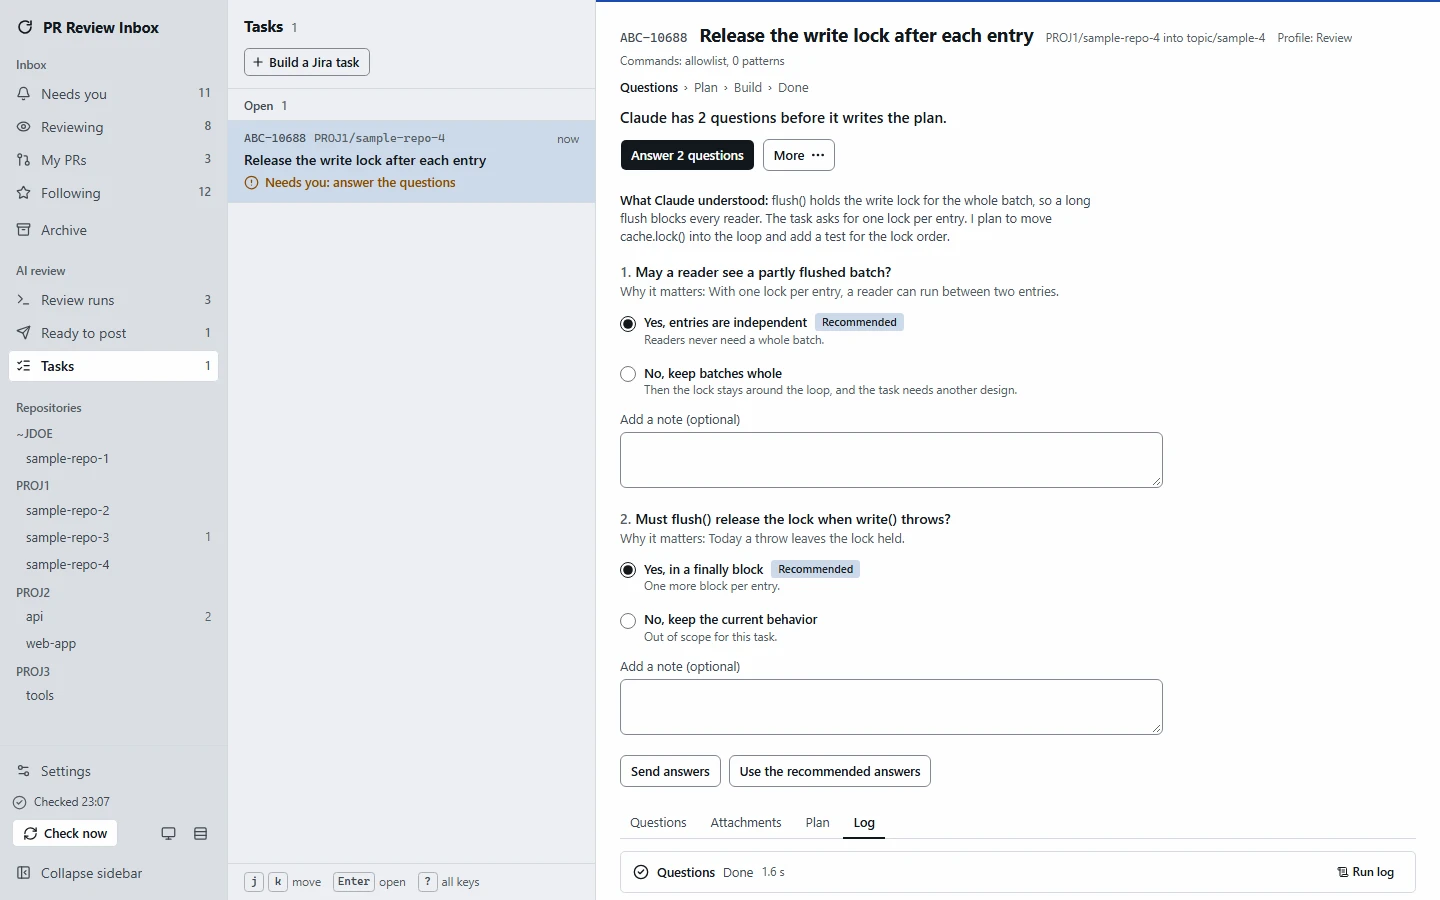
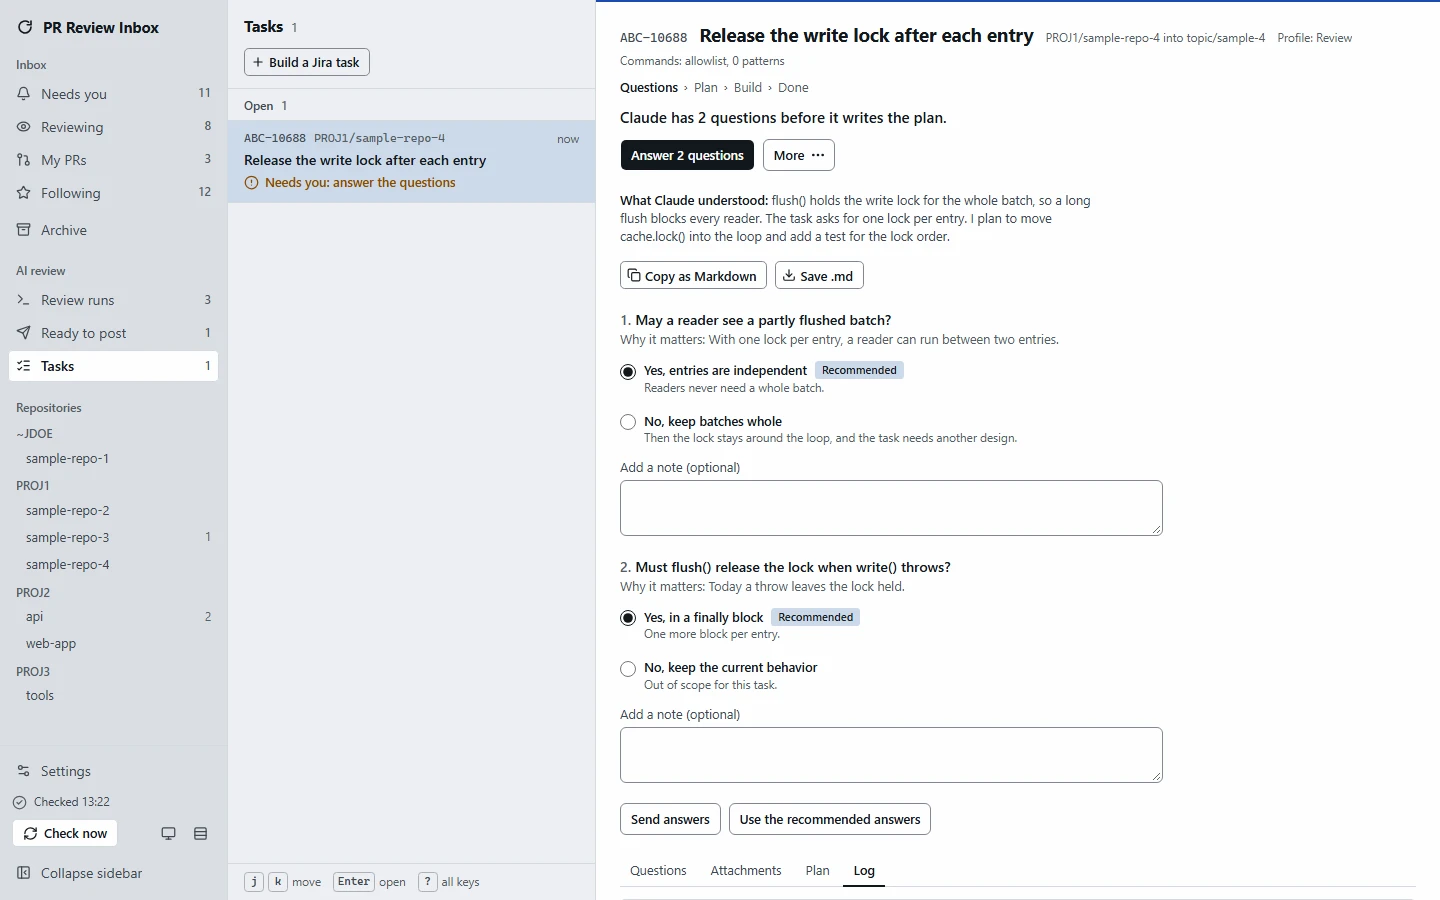
Add Copy as Markdown and Save .md to the task questions, so the open questions with their options can go to another session for a deeper answer

diff --git a/src/web/tasks/Questions.tsx b/src/web/tasks/Questions.tsx
@@ -4,18 +4,19 @@
 // The Questions form (docs/plans/review-v2/spec.md sections 6.12 and 7.1, AC-UX5): each question with "Why it matters", radio
 // buttons with the recommended option preselected and labeled, an optional note, "Send answers", and "Use the recommended answers".
 // The answered questions of earlier rounds show below as a read-only list.
-import { TriangleAlert } from "lucide-react";
-import { useState } from "react";
+import { Check, Copy, Download, TriangleAlert } from "lucide-react";
+import { useEffect, useState } from "react";
 import { Badge } from "@/components/ui/badge";
 import { Button } from "@/components/ui/button";
 import { FieldDescription, FieldLegend, FieldSet } from "@/components/ui/field";
 import { Textarea } from "@/components/ui/textarea";
+import { toast } from "@/components/ui/toast";
 import { MAX_TASK_ANSWER, type TaskAnswersInput, type TaskQuestionDto } from "../../shared/dto";
+import { copyText } from "../lib/clipboard";
+import { questionsMarkdown, recommendedOf } from "./model";
 
 type Pick = { choice: number | null; text: string };
 
-// ps5-plan.md section 4.4: a push-back question (point set) has no recommended option, and its answer needs an option.
-const recommendedOf = (q: TaskQuestionDto) => (q.kind === "choice" && q.point === null ? q.recommended : null);
 const start = (qs: TaskQuestionDto[]): Record<number, Pick> =>
   Object.fromEntries(qs.map((q) => [q.id, { choice: recommendedOf(q), text: "" }]));
 
@@ -33,6 +34,9 @@ export function answersOf(qs: TaskQuestionDto[], picks: Record<number, Pick>): T
 }
 
 export function QuestionsForm(props: {
+  task: { key: string; title: string };
+  // The interview summary that the screen shows above the form. The Markdown export includes it.
+  summary?: string | null;
   questions: TaskQuestionDto[];
   // spec.md section 6.25.6: the part of each loop question in a task with sub-tasks.
   label?: (q: TaskQuestionDto) => string | null;
@@ -65,6 +69,10 @@ export function QuestionsForm(props: {
         send();
       }}
     >
+      <ExportBar
+        markdown={() => questionsMarkdown(props.task, questions, { summary: props.summary, label: props.label })}
+        file={`${props.task.key}-questions.md`}
+      />
       {questions.map((q, i) => {
         const p = picks[q.id] ?? { choice: null, text: "" };
         const why = `tq-${q.id}-why`;
@@ -160,6 +168,56 @@ export function QuestionsForm(props: {
         )}
       </div>
     </form>
+  );
+}
+
+// The open questions as Markdown for another session. The visible text names each button. The file name keeps only safe characters.
+function ExportBar({ markdown, file }: { markdown: () => string; file: string }) {
+  // A count, so a second copy within 1.5 s starts the time again.
+  const [copied, setCopied] = useState(0);
+  const [said, setSaid] = useState("");
+  useEffect(() => {
+    if (!copied) return;
+    const h = setTimeout(() => {
+      setCopied(0);
+      setSaid("");
+    }, 1500);
+    return () => clearTimeout(h);
+  }, [copied]);
+  const copy = () =>
+    copyText(markdown()).then((ok) => {
+      if (!ok) return toast.add({ title: "The clipboard is blocked here. Select the text and press Ctrl+C." });
+      setCopied((n) => n + 1);
+      setSaid("Copied");
+    });
+  const save = () => {
+    const url = URL.createObjectURL(new Blob([markdown()], { type: "text/markdown;charset=utf-8" }));
+    const a = document.createElement("a");
+    a.href = url;
+    a.download = file.replace(/[^\w.-]/g, "_");
+    document.body.append(a);
+    a.click();
+    a.remove();
+    setTimeout(() => URL.revokeObjectURL(url), 0);
+  };
+  return (
+    <div className="flex flex-wrap items-center gap-2">
+      <Button type="button" variant="outline" size="sm" onClick={copy}>
+        {copied ? (
+          <Check key={copied} data-icon="inline-start" aria-hidden className="rl-pop" />
+        ) : (
+          <Copy data-icon="inline-start" aria-hidden />
+        )}
+        {copied ? "Copied" : "Copy as Markdown"}
+      </Button>
+      <Button type="button" variant="outline" size="sm" onClick={save}>
+        <Download data-icon="inline-start" aria-hidden />
+        Save .md
+      </Button>
+      <span aria-live="polite" className="sr-only">
+        {said}
+      </span>
+    </div>
   );
 }
 

diff --git a/tests/web/tasks-model.test.ts b/tests/web/tasks-model.test.ts
@@ -72,6 +72,7 @@ import {
   prTitle,
   questionPart,
   questionSource,
+  questionsMarkdown,
   REPOS_SHOWN,
   readyNotes,
   repairAnswer,
@@ -2403,7 +2404,15 @@ describe("ps5-plan.md section 4.4: push-back questions", () => {
   const card = { id: 31, check: "The loop reads past the end.", reason: "The guard at line 4 stops it.", cite: "src/a.ts:4" };
   const pushback = question({ id: 5, source: "loop", point: { ...card, citeFound: true }, recommended: 0 });
   const form = (questions: TaskQuestionDto[]) =>
-    renderToStaticMarkup(createElement(QuestionsForm, { questions, busy: false, onSend: () => {}, onRecommended: () => {} }));
+    renderToStaticMarkup(
+      createElement(QuestionsForm, {
+        task: { key: "ABC-1", title: "Add a flag" },
+        questions,
+        busy: false,
+        onSend: () => {},
+        onRecommended: () => {},
+      }),
+    );
 
   test("the loop questions in implementing and ready, the interview questions before the build", () => {
     expect(questionSource(building())).toBe("loop");
@@ -2441,6 +2450,63 @@ describe("ps5-plan.md section 4.4: push-back questions", () => {
     expect(answersOf([pushback], { 5: { choice: 1, text: "" } })).toEqual([{ question: 5, choice: 1 }]);
     const plain = question({ id: 6 });
     expect(answersOf([plain], { 6: { choice: null, text: "Keep it short." } })).toEqual([{ question: 6, text: "Keep it short." }]);
+  });
+});
+
+// Copy as Markdown and Save .md: the open questions for another session.
+describe("the open questions as Markdown", () => {
+  const T = { key: "ABC-1", title: "Add a flag" };
+  const card = {
+    id: 31,
+    check: "The loop reads past the end.",
+    reason: "The guard\nat line 4 stops it.",
+    cite: "src/a.ts:4",
+    citeFound: false,
+  };
+
+  test("a choice question numbers its options and marks the recommended one", () => {
+    const options = [
+      { label: "Keep it", detail: "No test changes." },
+      { label: "Drop it", detail: "" },
+    ];
+    const md = questionsMarkdown(T, [question({ options })]);
+    expect(md).toStartWith("# Open questions: ABC-1 Add a flag\n");
+    expect(md).toContain("pick one option by its number, or write your own answer.");
+    expect(md).toContain(
+      "## Question 1: Keep the old behavior?\n\nWhy it matters: It changes the tests.\n\n1. Keep it — No test changes. (recommended)\n2. Drop it\n",
+    );
+  });
+
+  test("a push-back question shows the card lines and no recommended mark", () => {
+    const md = questionsMarkdown(T, [question({ source: "loop", point: card, recommended: 0 })]);
+    expect(md).toContain("- Check: The loop reads past the end.\n- Reason: The guard at line 4 stops it.\n- Proof: `src/a.ts:4`\n");
+    expect(md).toContain("- The app did not find this place in the code or the plan.");
+    expect(md).not.toContain("(recommended)");
+    expect(md).not.toContain("Why it matters");
+  });
+
+  test("a text question asks for a written answer", () => {
+    const md = questionsMarkdown(T, [question({ kind: "text", options: [], recommended: null })]);
+    expect(md).toContain("This question needs a written answer.");
+    expect(md).not.toMatch(/^1\. /m);
+  });
+
+  test("multi-line text stays on one line, the summary is an indented block, and the part label shows", () => {
+    const q = question({ text: "Keep it?\n# Not a heading", why: "One\r\ntwo", options: [{ label: "A\nB", detail: "c\nd" }] });
+    const md = questionsMarkdown(T, [q], { summary: "Line one.\n## Line two.", label: () => "Part 2: ABC-2" });
+    expect(md).toContain(
+      "## Question 1: Keep it? # Not a heading\n\nPart: Part 2: ABC-2\n\nWhy it matters: One two\n\n1. A B — c d (recommended)\n",
+    );
+    expect(md).toContain("## Summary of the task\n\n    Line one.\n    ## Line two.\n");
+    expect(md).not.toMatch(/^# Not a heading/m);
+  });
+
+  test("the form shows Copy as Markdown and Save .md", () => {
+    const html = renderToStaticMarkup(
+      createElement(QuestionsForm, { task: T, questions: [question()], busy: false, onSend: () => {}, onRecommended: () => {} }),
+    );
+    expect(html).toContain("Copy as Markdown");
+    expect(html).toContain("Save .md");
   });
 });
 

diff --git a/src/web/tasks/model.ts b/src/web/tasks/model.ts
@@ -4,6 +4,7 @@
 // The Task view model (docs/plans/review-v2/spec.md sections 6.12 and 7): one status sentence that names who acts or what the app
 // waits for, at most one primary action, and the More actions, per state. Pure: tests/web/tasks-model.test.ts has one test per row.
 // runner: the short name of the CLI from meta, because UI code names no product (tests/ui/names.test.ts).
+import { indentBlock, oneLine } from "../../shared/consult";
 import {
   type AttachmentDto,
   type AttachmentMeta,
@@ -199,6 +200,48 @@ const partStep = (t: Pick<TaskDto, "steps">, part: number): TaskStepDto | null =
 // ps5-plan.md section 4.4: a push-back question can wait in ready too, so both states read the loop questions.
 export const questionSource = (t: Pick<TaskDto, "state">): TaskQuestionDto["source"] =>
   t.state === "implementing" || t.state === "ready" ? "loop" : "interview";
+
+// ps5-plan.md section 4.4: a push-back question (point set) has no recommended option, and its answer needs an option.
+export const recommendedOf = (q: TaskQuestionDto) => (q.kind === "choice" && q.point === null ? q.recommended : null);
+
+// The open questions as Markdown for another AI session (Copy as Markdown, Save .md). The AI wrote the question text, so each
+// field stays on one line; the summary is an indented block. It marks the recommended option as the form does.
+export function questionsMarkdown(
+  t: Pick<TaskDto, "key" | "title">,
+  questions: TaskQuestionDto[],
+  o: { summary?: string | null; label?: (q: TaskQuestionDto) => string | null } = {},
+): string {
+  const out = [
+    `# Open questions: ${oneLine(t.key)} ${oneLine(t.title)}`,
+    "",
+    "Answer each question below. For a question with options, pick one option by its number, or write your own answer. Give the reason for each answer. Name the files, lines, or facts that support it. If you cannot answer a question, say so and say what is missing.",
+    "",
+  ];
+  if (o.summary?.trim()) out.push("## Summary of the task", "", indentBlock(o.summary.trim()), "");
+  questions.forEach((q, i) => {
+    const part = o.label?.(q);
+    out.push(`## Question ${i + 1}: ${oneLine(q.text)}`, "");
+    if (part) out.push(`Part: ${oneLine(part)}`, "");
+    if (q.point) {
+      if (q.point.check) out.push(`- Check: ${oneLine(q.point.check)}`);
+      out.push(
+        `- Reason: ${oneLine(q.point.reason)}`,
+        `- Proof: ${q.point.cite ? `\`${oneLine(q.point.cite).replaceAll("`", "'")}\`` : "none"}`,
+      );
+      if (!q.point.citeFound) out.push("- The app did not find this place in the code or the plan.");
+    } else out.push(`Why it matters: ${oneLine(q.why)}`);
+    out.push("");
+    if (q.kind === "choice") {
+      const rec = recommendedOf(q);
+      q.options.forEach((x, k) => {
+        const detail = x.detail.trim() ? ` — ${oneLine(x.detail)}` : "";
+        out.push(`${k + 1}. ${oneLine(x.label)}${detail}${rec === k ? " (recommended)" : ""}`);
+      });
+    } else out.push("This question needs a written answer.");
+    out.push("");
+  });
+  return out.join("\n");
+}
 
 // The part that the build works on or that waits for its PR: the first code part that did not merge or drop out.
 export function currentPart(t: Pick<TaskDto, "parts">): TaskPartDto | null {

diff --git a/tests/e2e/task-small.e2e.ts b/tests/e2e/task-small.e2e.ts
@@ -151,6 +151,7 @@ const chip = (page: Page, name: string) => page.getByRole("radio", { name, exact
 
 test("a small task: the Build form, questions, plan with the branch and the warning, a size note over the line limit, Open the PR, Close, and Continue", async ({
   page,
+  context,
 }) => {
   test.setTimeout(420_000);
   await control("claude", {
@@ -212,6 +213,14 @@ test("a small task: the Build form, questions, plan with the branch and the warn
   await expect(form.getByRole("radio", { name: /Keep it/ })).toBeChecked();
   await expect(form.getByText("Recommended", { exact: true })).toBeVisible();
   await expect(form.getByText("Why it matters: Echo: it changes the tests.")).toBeVisible();
+  // Copy as Markdown puts the open questions on the clipboard for another session.
+  await context.grantPermissions(["clipboard-read", "clipboard-write"], { origin: APP });
+  await form.getByRole("button", { name: "Copy as Markdown" }).click();
+  await expect(form.getByRole("button", { name: "Copied" })).toBeVisible();
+  const md = (await page.evaluate(() => navigator.clipboard.readText())).replace(/\r\n/g, "\n");
+  expect(md).toMatch(/^# Open questions: \S+ /);
+  expect(md).toContain("Why it matters: Echo: it changes the tests.");
+  expect(md).toMatch(/^1\. Keep it.* \(recommended\)$/m);
   await primary(page).click();
   await expect(form.getByRole("radio", { name: /Keep it/ })).toBeFocused();
   await form.getByRole("button", { name: "Send answers" }).click();

diff --git a/src/web/tasks/TaskView.tsx b/src/web/tasks/TaskView.tsx
@@ -974,6 +974,8 @@ function Content(props: {
         {open.length > 0 && t.blocked && (
           <QuestionsForm
             key={open.map((x) => x.id).join(",")}
+            task={t}
+            summary={loop ? null : t.interview?.summary}
             questions={open}
             label={(q) => questionPart(t, q)}
             busy={busy}

diff --git a/README.md b/README.md
@@ -198,7 +198,7 @@ Press `w`, or click "Explain this PR", to open the walkthrough page of the pull 
 
 ### Build a Jira task
 
-Open Tasks in the sidebar and use "Build a Jira task" with a key and a repository. "Main repository" lists the repositories of your pull requests and tasks first, then every repository that your token can push to. Type to search it. The "Profile" select starts on the profile of your last task in that repository, else your default profile. Every step of the task uses that profile: its model and the MCP tools that you ticked. Every step also gets all your skills and the skills in `.claude/skills` of the repository, from the base branch. A repository skill wins over your skill with the same name. Claude reads a skills index and opens only the skills that apply. The steps that write code also get the read-only git tools and no web tools. They run only the commands of "Commands Claude may run" (see below). A CodeGraph server in the profile indexes the task worktree before each step. "Read the task" shows the summary and the attachments of the issue, each with a box. Claude gets the ticked files in every step: images and PDFs up to 5 MB, and text files. Office files and archives stay listed by name only. With "Ask before Claude reads a Jira attachment" off in Settings, Jira, every box starts ticked. Else the first tick asks you to confirm your company AI policy. "Build this task" downloads the ticked files into the task. The Attachments tab of the task has the same boxes and "Include all", and a change applies from the next step. Claude reads the task and the code, then asks a few questions. Each question says why it matters and offers options, and the recommended option starts selected. "Use the recommended answers" sends them all.
+Open Tasks in the sidebar and use "Build a Jira task" with a key and a repository. "Main repository" lists the repositories of your pull requests and tasks first, then every repository that your token can push to. Type to search it. The "Profile" select starts on the profile of your last task in that repository, else your default profile. Every step of the task uses that profile: its model and the MCP tools that you ticked. Every step also gets all your skills and the skills in `.claude/skills` of the repository, from the base branch. A repository skill wins over your skill with the same name. Claude reads a skills index and opens only the skills that apply. The steps that write code also get the read-only git tools and no web tools. They run only the commands of "Commands Claude may run" (see below). A CodeGraph server in the profile indexes the task worktree before each step. "Read the task" shows the summary and the attachments of the issue, each with a box. Claude gets the ticked files in every step: images and PDFs up to 5 MB, and text files. Office files and archives stay listed by name only. With "Ask before Claude reads a Jira attachment" off in Settings, Jira, every box starts ticked. Else the first tick asks you to confirm your company AI policy. "Build this task" downloads the ticked files into the task. The Attachments tab of the task has the same boxes and "Include all", and a change applies from the next step. Claude reads the task and the code, then asks a few questions. Each question says why it matters and offers options, and the recommended option starts selected. "Use the recommended answers" sends them all. "Copy as Markdown" and "Save .md" above the questions give you the open questions as Markdown. Paste them into your own Claude Code session for a deeper answer, then answer in the app.
 
 ![The Task view with the step strip, the status sentence, and the questions with the recommended options](docs/screenshots/task-questions.webp)
 

diff --git a/CHANGELOG.md b/CHANGELOG.md
@@ -2,6 +2,7 @@
 
 ## Unreleased
 
+- Build a Jira task: the questions screen has "Copy as Markdown" and "Save .md". They give you the open questions with their options, so you can answer them in your own Claude Code session first.
 - My PRs: your open pull request that nobody has answered now shows under "Waiting on others" with "Waiting for review.", or "Approved." when every reviewer approved. Before, it showed under Done with "No new messages."
 - Inbox: the "1 updated · re-sort" chip no longer stays for a pull request that you opened from a link outside the view. Before, a click on the chip did not clear it.
 - Review profiles: the new switch "Thorough review" runs a full review twice at once and merges the findings. A point that both runs raise shows once. It uses about twice the Claude usage.
